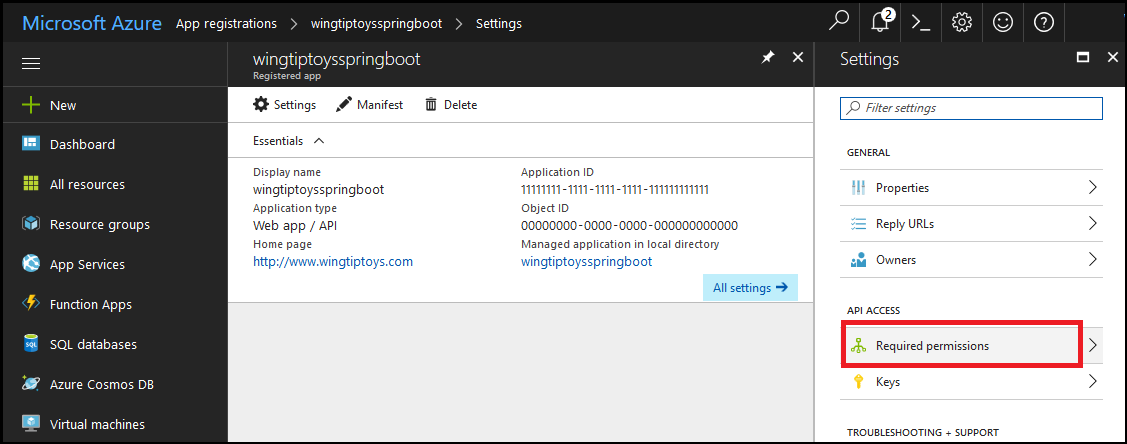
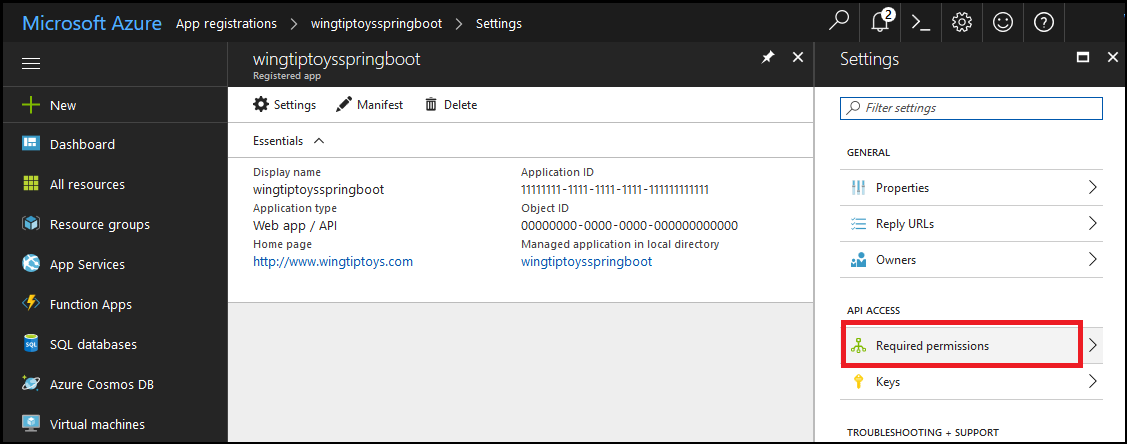
Updating article based on review

Changed region(s): [[0.6211, 0.6149, 0.7143, 0.7027]]

diff --git a/docs-ref-conceptual/spring-framework/configure-spring-boot-starter-java-app-with-azure-active-directory.md b/docs-ref-conceptual/spring-framework/configure-spring-boot-starter-java-app-with-azure-active-directory.md
@@ -97,7 +97,7 @@ The following prerequisites are required in order to complete the steps in this 
 
    ![Specify app registration key parameters][directory-08]
 
-1. From the main page for your app registration, click **Required permissions**.
+1. From the main page for your app registration, click **Settings**, and then click **Required permissions**.
 
    ![App registration required permissions][directory-09]
 
@@ -112,6 +112,14 @@ The following prerequisites are required in order to complete the steps in this 
 1. On the **Required permissions** page, click **Grant Permissions**, and click **Yes** when prompted.
 
    ![Grant access permissions][directory-12]
+
+1. From the main page for your app registration, click **Settings**, and then click **Reply URLs**.
+
+   ![Edit Reply URLs][directory-14]
+
+1. Enter "http://localhost:8080/login/oauth2/code/azure" as a new reply URL, and then click **Save**.
+
+   ![Add new Reply URL][directory-15]
 
 ## Configure and compile your Spring Boot application
 
@@ -301,6 +309,8 @@ The **[Spring Framework]** is an open-source solution that helps Java developers
 [directory-11]: media/configure-spring-boot-starter-java-app-with-azure-active-directory/directory-11.png
 [directory-12]: media/configure-spring-boot-starter-java-app-with-azure-active-directory/directory-12.png
 [directory-13]: media/configure-spring-boot-starter-java-app-with-azure-active-directory/directory-13.png
+[directory-14]: media/configure-spring-boot-starter-java-app-with-azure-active-directory/directory-14.png
+[directory-15]: media/configure-spring-boot-starter-java-app-with-azure-active-directory/directory-15.png
 
 [build-application]: media/configure-spring-boot-starter-java-app-with-azure-active-directory/build-application.png
 [application-login]: media/configure-spring-boot-starter-java-app-with-azure-active-directory/application-login.png
